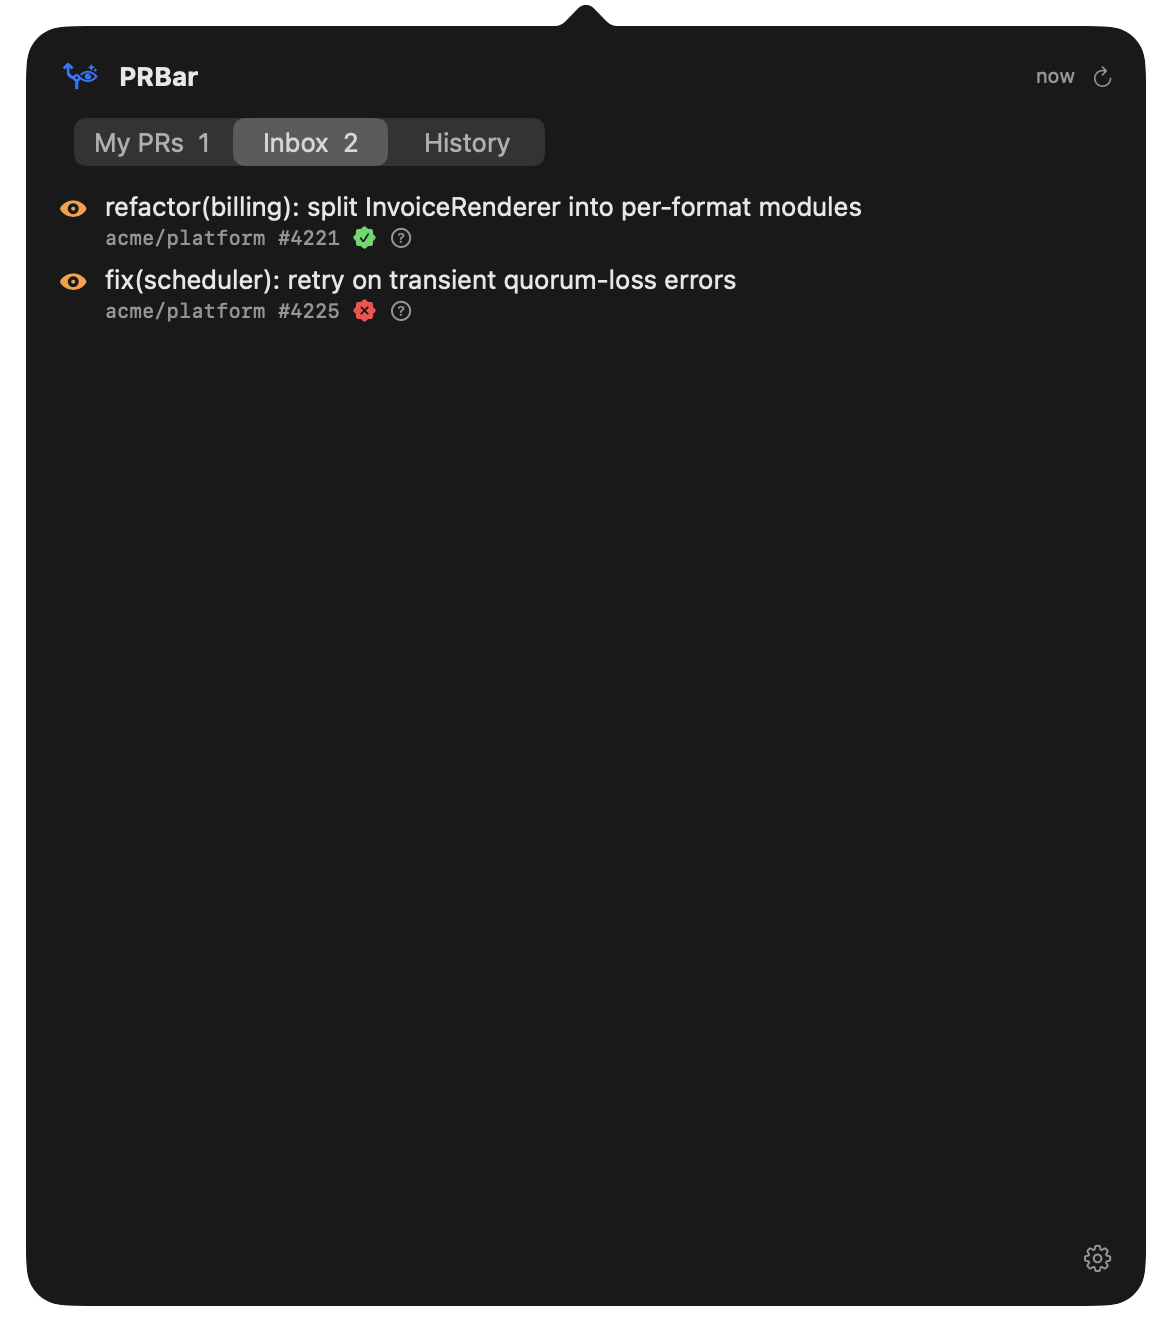
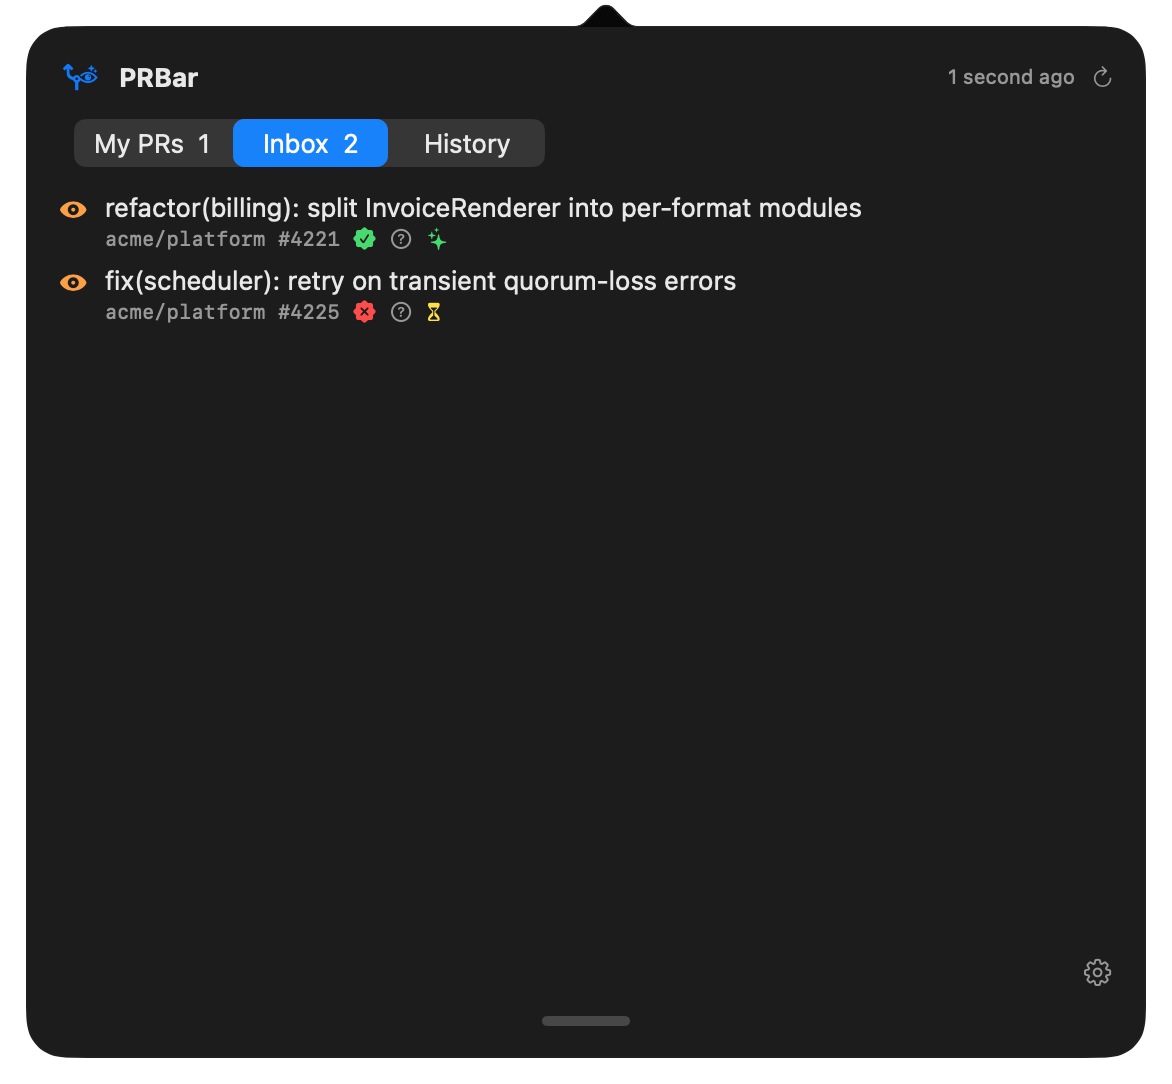
feat(inbox): show per-PR AI review status badge
The inbox already showed CI and human-review state per row but gave no
signal about the AI review pipeline, so a reviewer couldn't tell at a
glance whether a PR's automated triage was queued, still running, done,
or had failed without opening the PR.

Surface it as a small badge in the row metadata next to the existing
CI/review badges. `sparkles` carries the AI identity across states;
colour encodes status and a pulse marks the in-flight run: not-started,
queued, running, done, done-for-an-earlier-commit, and failed.

The status mapping lives in a pure `AIReviewBadge` enum so it is unit
tested without a live ReviewQueueWorker. `PRListView` resolves it from
the worker's review map and passes it down, mirroring how it already
threads ActionQueue state into the row. "Not started" only shows on
review-requested rows, where a review is actually expected; authored
rows with no review entry get no badge.

diff --git a/Tests/PRBarTests/AIReviewBadgeTests.swift b/Tests/PRBarTests/AIReviewBadgeTests.swift
@@ -1,0 +1,62 @@
+import XCTest
+@testable import PRBar
+
+final class AIReviewBadgeTests: XCTestCase {
+
+    private func makeAgg() -> AggregatedReview {
+        let result = ProviderResult(
+            verdict: .approve, confidence: 0.9, summaryMarkdown: "ok",
+            annotations: [], costUsd: 0.05,
+            toolCallCount: 0, toolNamesUsed: [], rawJson: Data()
+        )
+        return AggregatedReview(
+            verdict: .approve, confidence: 0.9, summaryMarkdown: "ok",
+            annotations: [], costUsd: 0.05,
+            toolCallCount: 0, toolNamesUsed: [],
+            perSubreview: [SubreviewOutcome(subpath: "", result: result)],
+            isSubscriptionAuth: false
+        )
+    }
+
+    func testQueuedMapsToQueued() {
+        let badge = AIReviewBadge(status: .queued, reviewedSha: nil, headSha: "abc", role: .reviewRequested)
+        XCTAssertEqual(badge, .queued)
+    }
+
+    func testRunningMapsToRunning() {
+        let badge = AIReviewBadge(status: .running, reviewedSha: nil, headSha: "abc", role: .reviewRequested)
+        XCTAssertEqual(badge, .running)
+    }
+
+    func testFailedMapsToFailed() {
+        let badge = AIReviewBadge(status: .failed("boom"), reviewedSha: "abc", headSha: "abc", role: .reviewRequested)
+        XCTAssertEqual(badge, .failed)
+    }
+
+    func testCompletedAtCurrentHeadIsDone() {
+        let badge = AIReviewBadge(status: .completed(makeAgg()), reviewedSha: "abc", headSha: "abc", role: .reviewRequested)
+        XCTAssertEqual(badge, .done)
+    }
+
+    func testCompletedAtOlderHeadIsStale() {
+        let badge = AIReviewBadge(status: .completed(makeAgg()), reviewedSha: "old", headSha: "new", role: .reviewRequested)
+        XCTAssertEqual(badge, .doneStale)
+    }
+
+    func testNoStatusOnReviewRequestedRowIsNotYet() {
+        XCTAssertEqual(AIReviewBadge(status: nil, reviewedSha: nil, headSha: "abc", role: .reviewRequested), .notYet)
+        XCTAssertEqual(AIReviewBadge(status: nil, reviewedSha: nil, headSha: "abc", role: .both), .notYet)
+    }
+
+    func testNoStatusOnAuthoredOrOtherRowIsNil() {
+        XCTAssertNil(AIReviewBadge(status: nil, reviewedSha: nil, headSha: "abc", role: .authored))
+        XCTAssertNil(AIReviewBadge(status: nil, reviewedSha: nil, headSha: "abc", role: .other))
+    }
+
+    func testInFlightShowsRegardlessOfRole() {
+        // A queued/running/done review is surfaced even on authored rows
+        // (e.g. a manual re-run), since the entry itself proves intent.
+        XCTAssertEqual(AIReviewBadge(status: .queued, reviewedSha: nil, headSha: "x", role: .authored), .queued)
+        XCTAssertEqual(AIReviewBadge(status: .completed(makeAgg()), reviewedSha: "x", headSha: "x", role: .other), .done)
+    }
+}

diff --git a/Sources/PRBar/UI/PRRowView.swift b/Sources/PRBar/UI/PRRowView.swift
@@ -14,6 +14,9 @@ struct PRRowView: View {
     /// When true, merge fires immediately without the confirmation dialog.
     /// Resolved by the parent (per-repo override over the global setting).
     var skipMergeConfirmation: Bool = false
+    /// AI review status for this row, resolved by the parent from
+    /// `ReviewQueueWorker`. Nil renders no badge.
+    var aiReview: AIReviewBadge? = nil
 
     @State private var isHovering = false
     @State private var showMergeConfirm = false
@@ -70,6 +73,7 @@ struct PRRowView: View {
                     }
                     rollupBadge
                     reviewBadge
+                    aiReviewBadge
                 }
             }
             Spacer()
@@ -293,6 +297,49 @@ struct PRRowView: View {
                 .font(.caption2)
         default:
             EmptyView()
+        }
+    }
+
+    /// AI review status. `sparkles` carries the "AI" identity across
+    /// states; colour encodes status, motion (pulse) marks the in-flight
+    /// run. Mirrors `rollupBadge` / `reviewBadge` sizing so the metadata
+    /// row stays visually uniform.
+    @ViewBuilder
+    private var aiReviewBadge: some View {
+        switch aiReview {
+        case .none:
+            EmptyView()
+        case .notYet:
+            Image(systemName: "sparkles")
+                .foregroundStyle(.tertiary)
+                .font(.caption2)
+                .help("AI review: not started")
+        case .queued:
+            Image(systemName: "hourglass")
+                .foregroundStyle(.yellow)
+                .font(.caption2)
+                .help("AI review: queued")
+        case .running:
+            Image(systemName: "sparkles")
+                .foregroundStyle(.orange)
+                .font(.caption2)
+                .symbolEffect(.pulse, options: .repeating)
+                .help("AI review: in progress")
+        case .done:
+            Image(systemName: "sparkles")
+                .foregroundStyle(.green)
+                .font(.caption2)
+                .help("AI review: done")
+        case .doneStale:
+            Image(systemName: "sparkles")
+                .foregroundStyle(.yellow)
+                .font(.caption2)
+                .help("AI review: done for an earlier commit — re-run for the latest")
+        case .failed:
+            Image(systemName: "exclamationmark.bubble.fill")
+                .foregroundStyle(.red)
+                .font(.caption2)
+                .help("AI review failed — open the PR for details")
         }
     }
 }

diff --git a/Sources/PRBar/Models/AIReviewBadge.swift b/Sources/PRBar/Models/AIReviewBadge.swift
@@ -1,0 +1,44 @@
+import Foundation
+
+/// Presentation state for the per-row AI review indicator shown in the
+/// inbox. A pure mapping from `ReviewState.Status` (plus head-SHA
+/// staleness and the PR's role) so the badge logic is unit-testable
+/// without a live `ReviewQueueWorker`. The view layer turns each case
+/// into an icon + colour + tooltip.
+enum AIReviewBadge: Sendable, Equatable, CaseIterable {
+    /// No AI review yet, but one is expected for this row (the viewer was
+    /// asked to review). Authored-only rows get no badge at all.
+    case notYet
+    case queued
+    case running
+    /// Completed against the PR's current head commit.
+    case done
+    /// Completed, but against an older commit than the PR's current head —
+    /// the verdict is for a stale snapshot and a re-run is appropriate.
+    case doneStale
+    case failed
+
+    /// Derive the badge from the live review entry. `nil` means "render no
+    /// badge for this row".
+    ///
+    /// `reviewedSha` is the head the cached review ran against; when it no
+    /// longer matches the PR's `headSha` a completed review is stale.
+    init?(status: ReviewState.Status?, reviewedSha: String?, headSha: String, role: PRRole) {
+        switch status {
+        case .queued:
+            self = .queued
+        case .running:
+            self = .running
+        case .failed:
+            self = .failed
+        case .completed:
+            self = reviewedSha == headSha ? .done : .doneStale
+        case .none:
+            // Without a review entry, only hint "not started" where a
+            // review is actually expected. Authored-only rows never
+            // enqueue a review, so a permanent "not yet" there is noise.
+            guard role == .reviewRequested || role == .both else { return nil }
+            self = .notYet
+        }
+    }
+}

diff --git a/Sources/PRBar/UI/PRListView.swift b/Sources/PRBar/UI/PRListView.swift
@@ -16,7 +16,20 @@ struct PRListView: View {
     @Environment(DiffStore.self) private var diffStore
     @Environment(ActionQueue.self) private var actionQueue
     @Environment(RepoConfigStore.self) private var repoConfigs
+    @Environment(ReviewQueueWorker.self) private var reviewQueue
     @AppStorage("skipMergeConfirmation") private var skipMergeConfirmationGlobal = false
+
+    /// Resolve the AI review status badge for a row from the live review
+    /// map. Nil for rows where no badge should show.
+    private func aiReviewBadge(for pr: InboxPR) -> AIReviewBadge? {
+        let entry = reviewQueue.reviews[pr.nodeId]
+        return AIReviewBadge(
+            status: entry?.status,
+            reviewedSha: entry?.headSha,
+            headSha: pr.headSha,
+            role: pr.role
+        )
+    }
 
     /// Effective "skip merge confirmation" for a PR: per-repo override
     /// wins over the global setting.
@@ -56,7 +69,8 @@ struct PRListView: View {
                                 onMerge: { method in onMergePR(pr, method) },
                                 onRetryAction: { actionQueue.retry(pr.nodeId) },
                                 onDismissAction: { actionQueue.dismissFailure(pr.nodeId) },
-                                skipMergeConfirmation: skipMergeConfirmation(for: pr)
+                                skipMergeConfirmation: skipMergeConfirmation(for: pr),
+                                aiReview: aiReviewBadge(for: pr)
                             )
                             .contentShape(Rectangle())
                             .onTapGesture { onSelect(pr) }

diff --git a/Sources/PRBar/Screenshots/ScreenshotFixtures.swift b/Sources/PRBar/Screenshots/ScreenshotFixtures.swift
@@ -223,6 +223,17 @@ enum ScreenshotFixtures {
             status: .completed(reviewForInReview),
             costUsd: 0.078,
             priorReviews: []
+        ),
+        // A second, still-queued review so the inbox screenshot shows two
+        // distinct AI-status badges (done + queued) side by side.
+        prCiFailing.nodeId: ReviewState(
+            prNodeId: prCiFailing.nodeId,
+            providerId: .claude,
+            headSha: prCiFailing.headSha,
+            triggeredAt: Date(timeIntervalSinceNow: -20),
+            status: .queued,
+            costUsd: 0,
+            priorReviews: []
         )
     ]
 